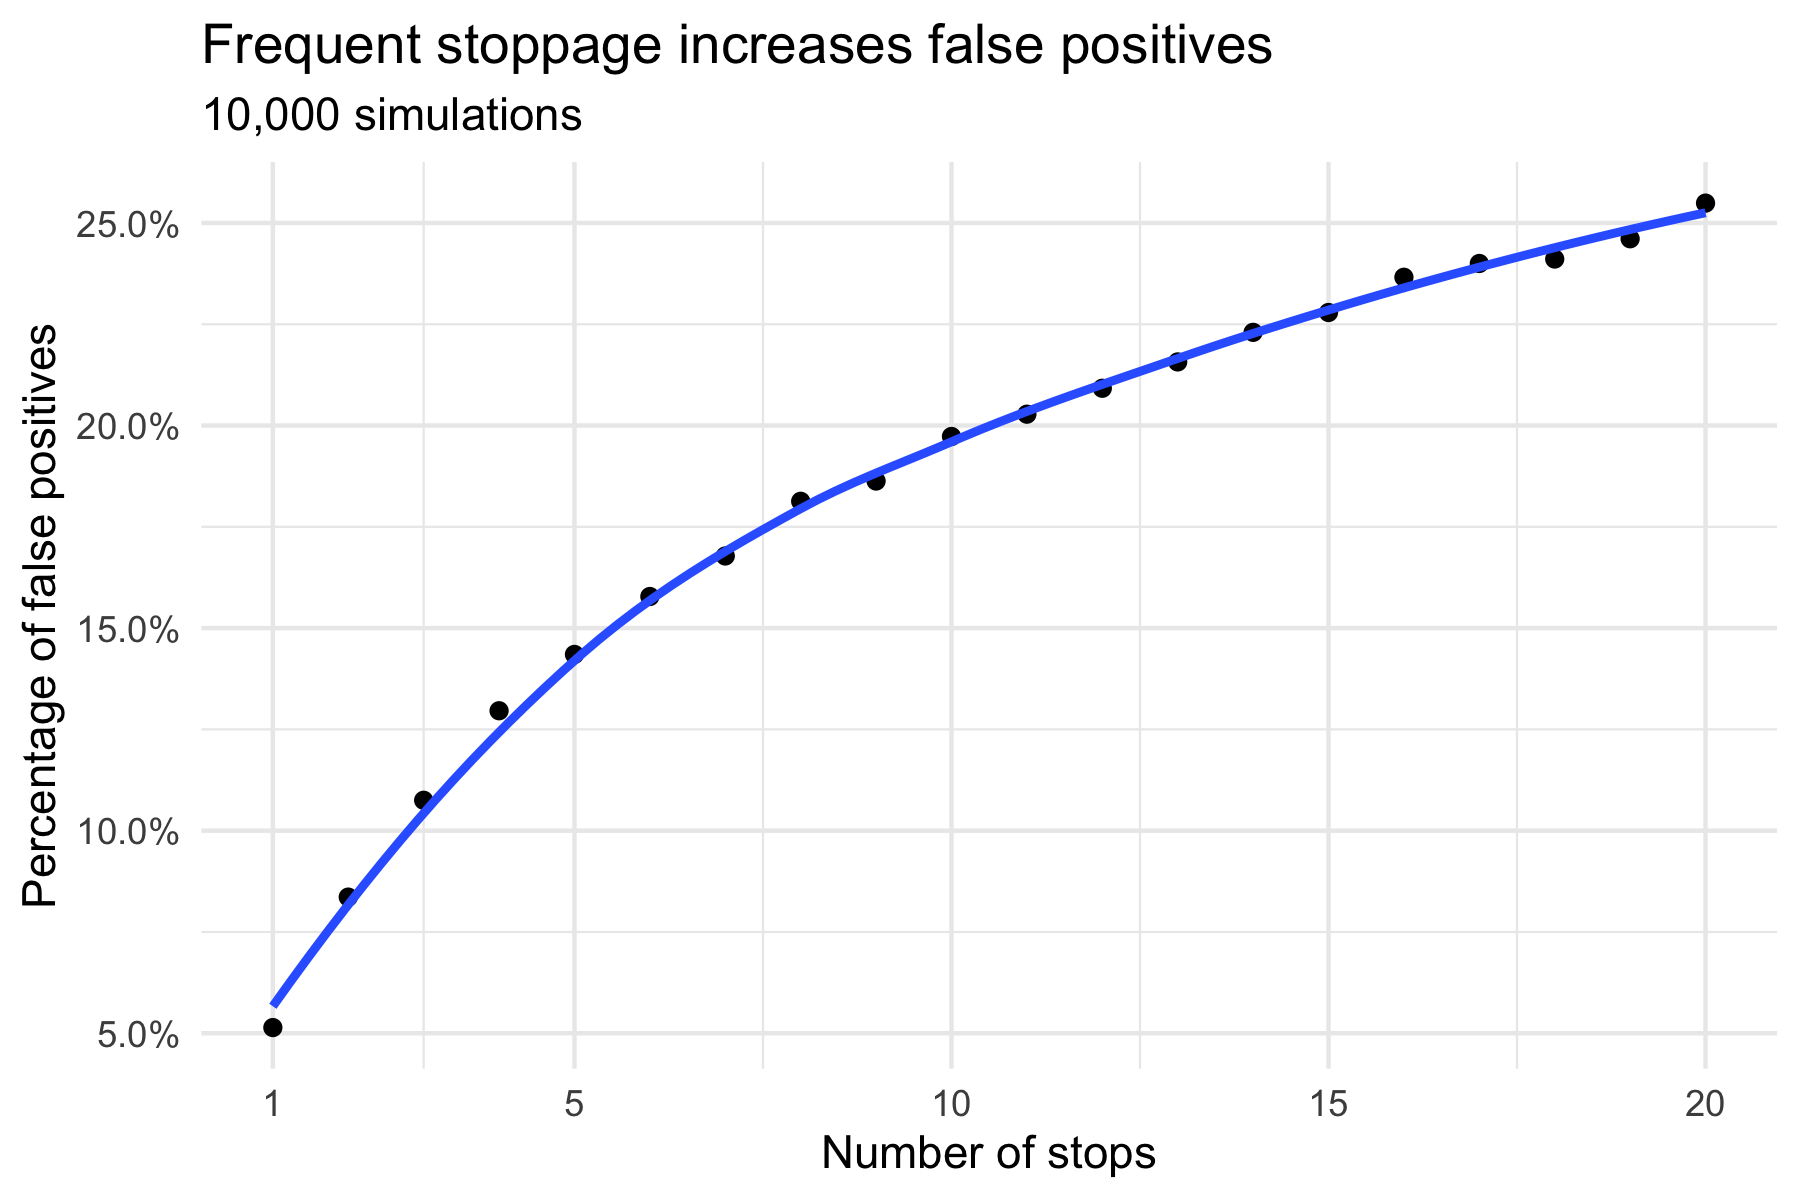
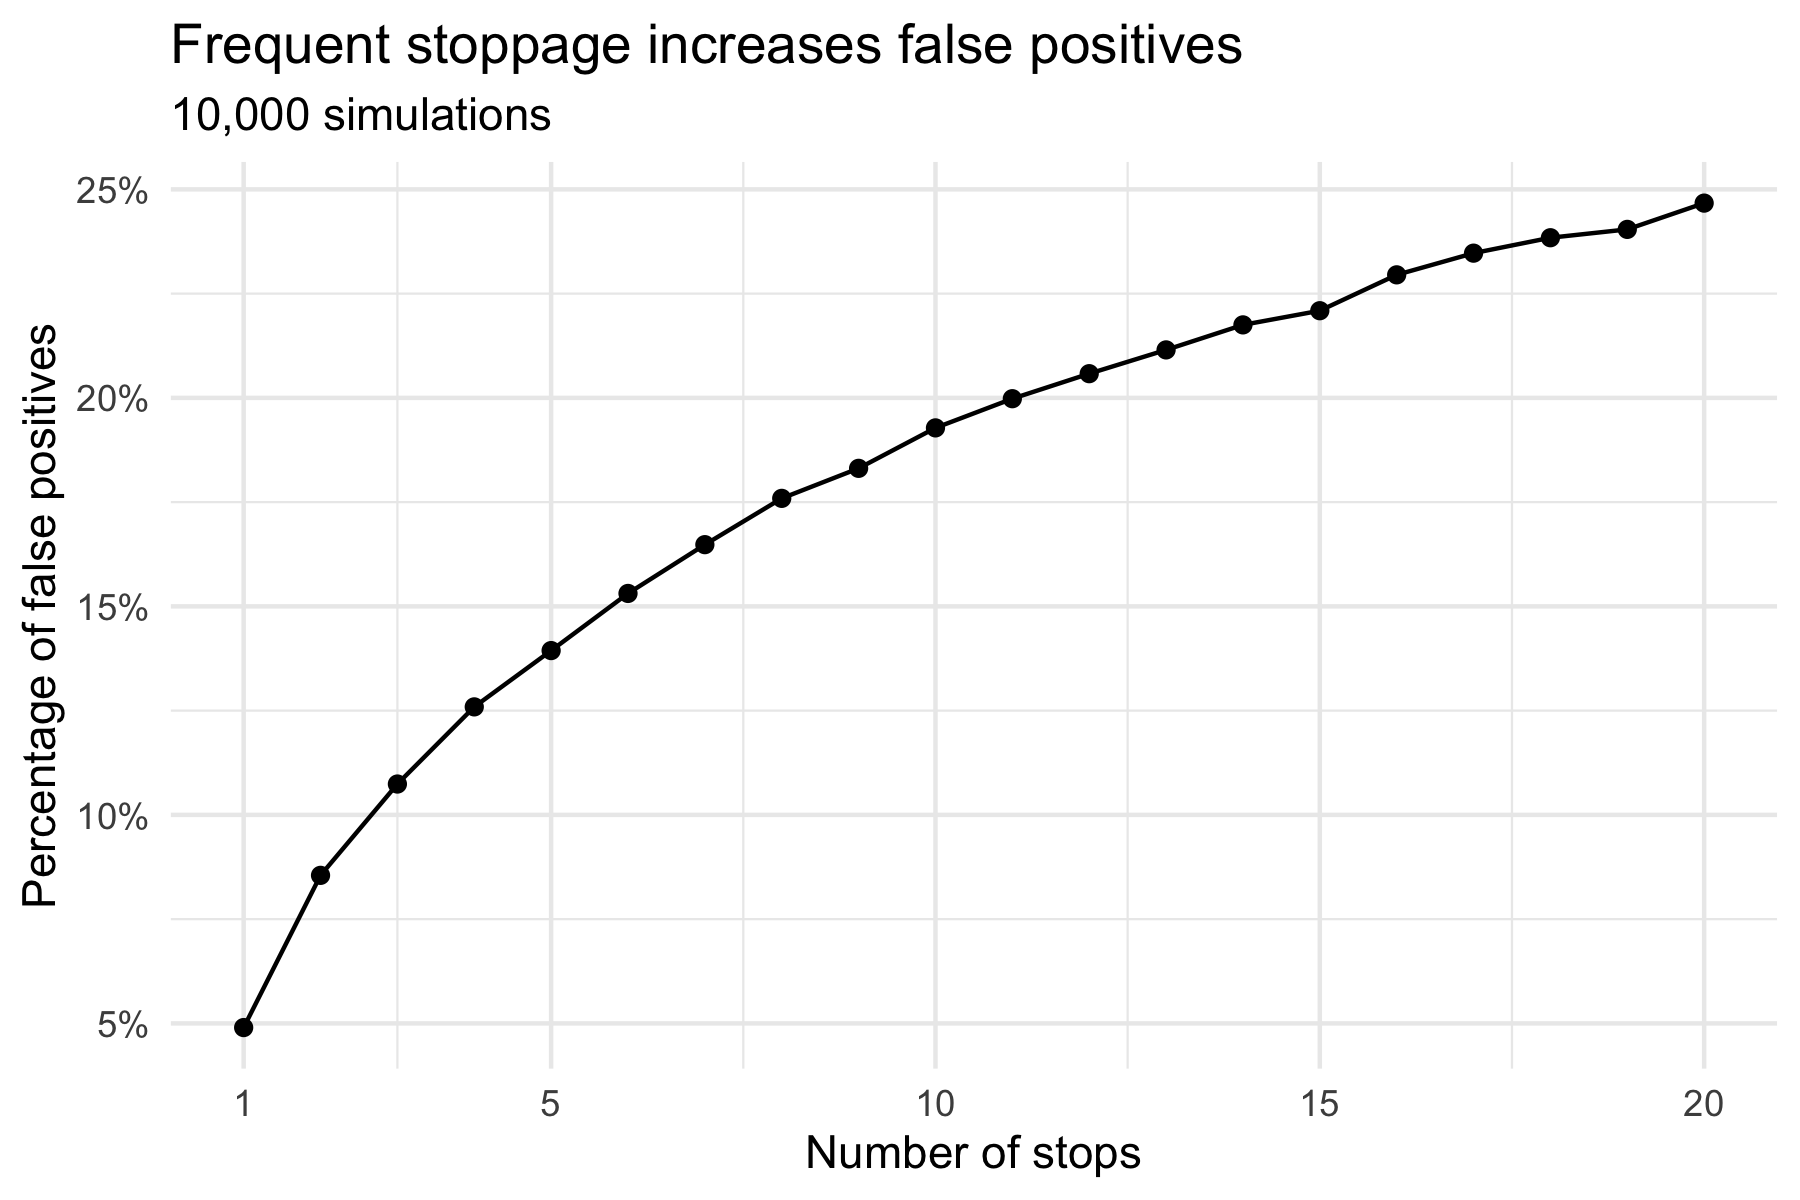
added seed to stoppage, updated stoppage plot per google doc notes

diff --git a/README.md b/README.md
@@ -2,6 +2,6 @@
 
 White paper illustrating common pitfalls of A/B tests.
 
-## Key links
+## Links
  - [To-do](https://docs.google.com/document/d/14MBXcz3E5AfhV1Q_GFUxOr_Rnk8Zq6cf1L5ffhvak2o/edit)
  - [Test dataset](https://www.kaggle.com/yufengsui/mobile-games-ab-testing)
